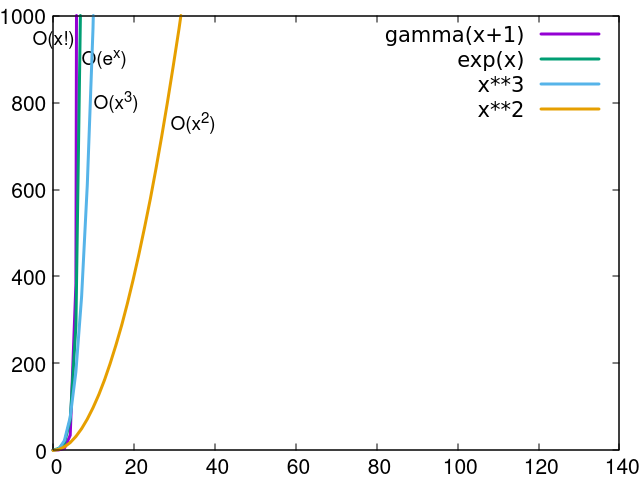
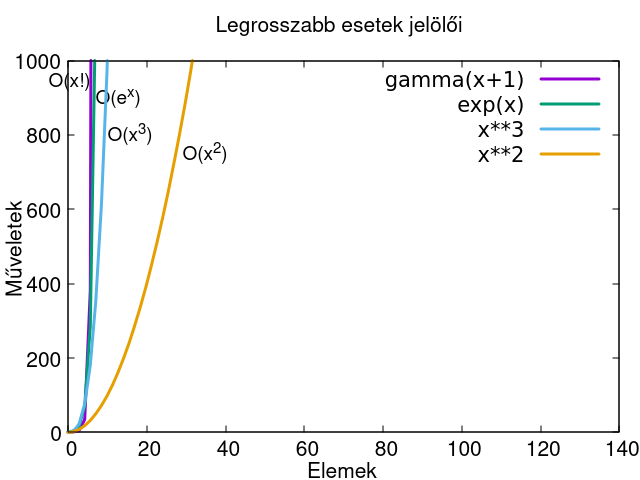
asztali_mobil: Új legrosszabb.png kép

Changed region(s): [[0.0, 0.0, 1.0, 1.0], [0.8438, 0.3125, 0.9375, 0.3438]]

diff --git a/asztali_mobil/02_Algoritmusok.md b/asztali_mobil/02_Algoritmusok.md
@@ -72,9 +72,9 @@ Jelölések:
 
 Néhány algoritmus bonyolultsága a legrosszabb esetben:
 
-* beszúró rendezés O(n2)
-* buborék rendezés O(n2)
-* gyors rendezés O(n2)
+* beszúró rendezés O(n²)
+* buborék rendezés O(n²)
+* gyors rendezés O(n²)
 * shell-rendezés O(n log2 n) - függ a használt sorozattól
 * összefésülő rendezés O(n log n)
 
